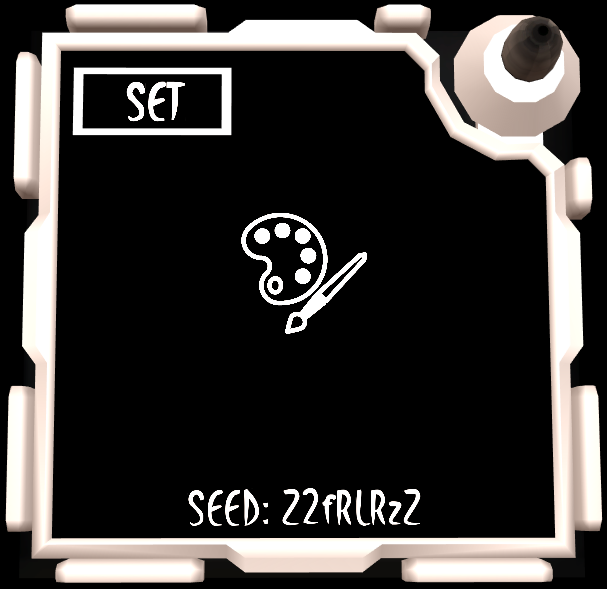
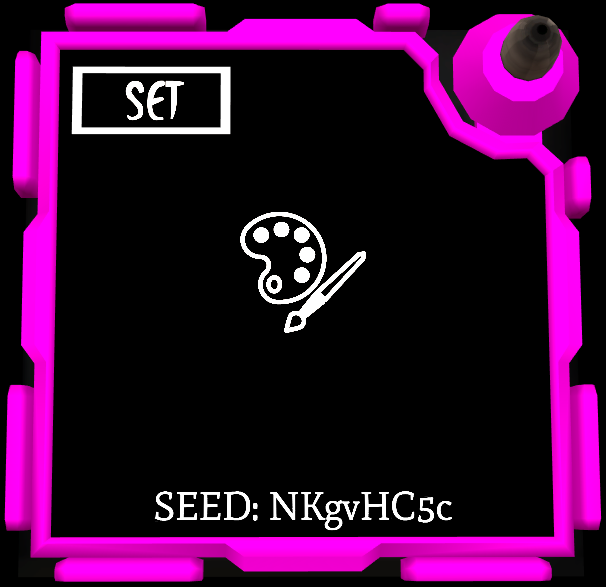
Maze Fix + Seed Font Change

diff --git a/Assets/SwitchingMazeScript.cs b/Assets/SwitchingMazeScript.cs
@@ -123,7 +123,7 @@ public class SwitchingMazeScript : MonoBehaviour
 		new string[6][]{
 			new string[6] {"E", "M", "K", "J", "F", "L"},
 			new string[6] {"C", "J", "J", "F", "H", "A"},
-			new string[6] {"H", "D", "F", "I", "F", "G"},
+			new string[6] {"H", "D", "F", "I", "E", "G"},
 			new string[6] {"F", "I", "I", "I", "C", "M"},
 			new string[6] {"C", "G", "I", "N", "C", "F"},
 			new string[6] {"H", "M", "H", "J", "G", "N"}
